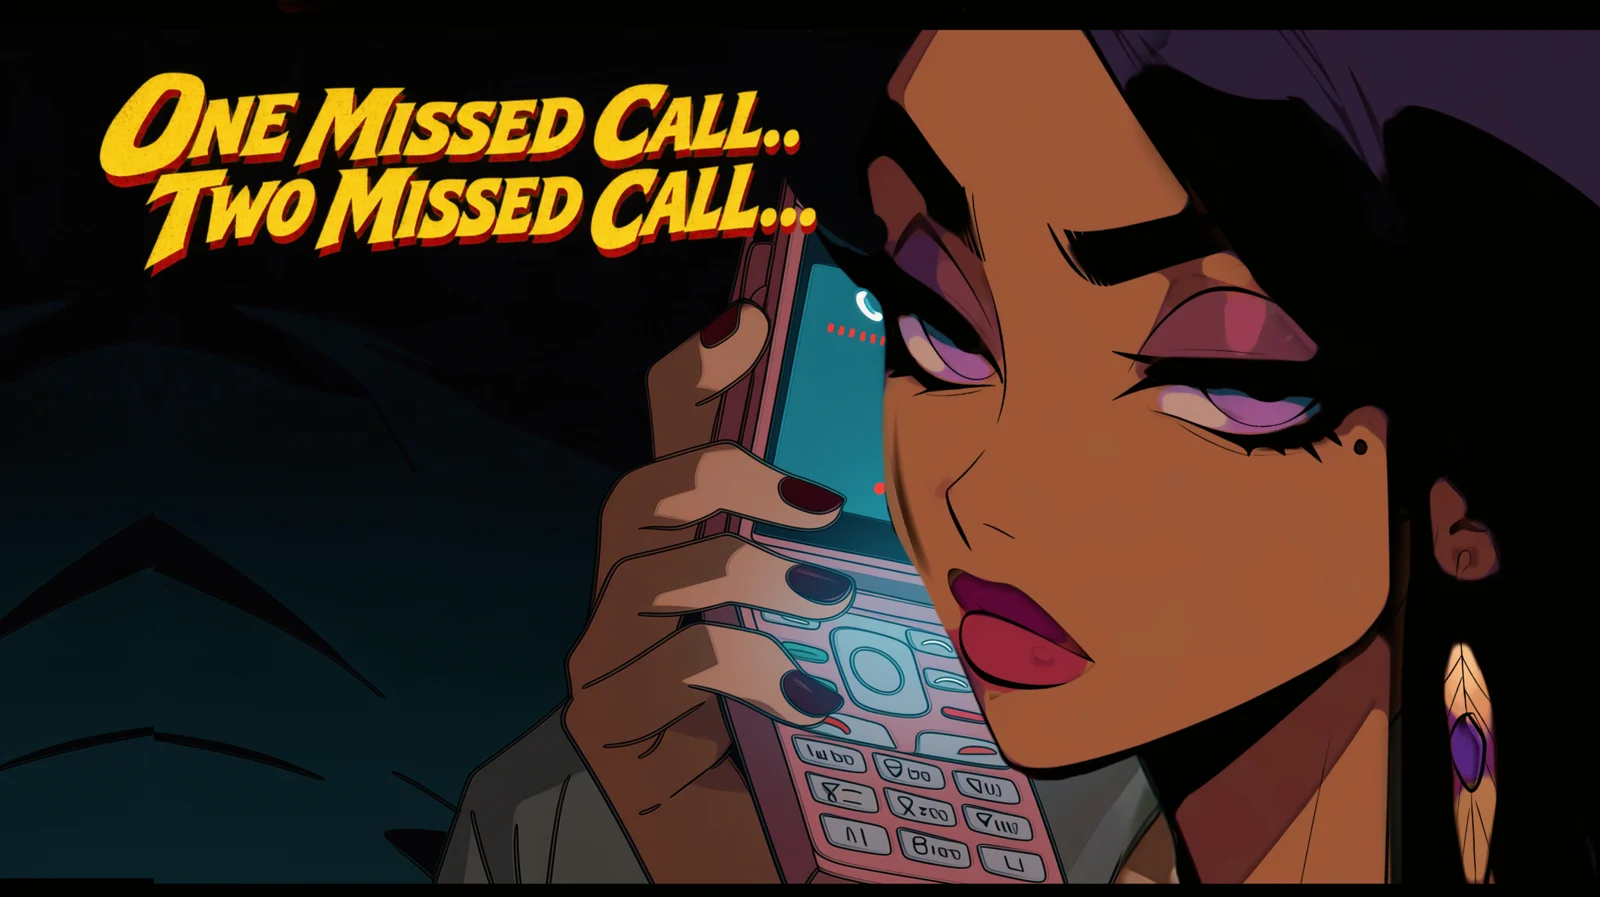
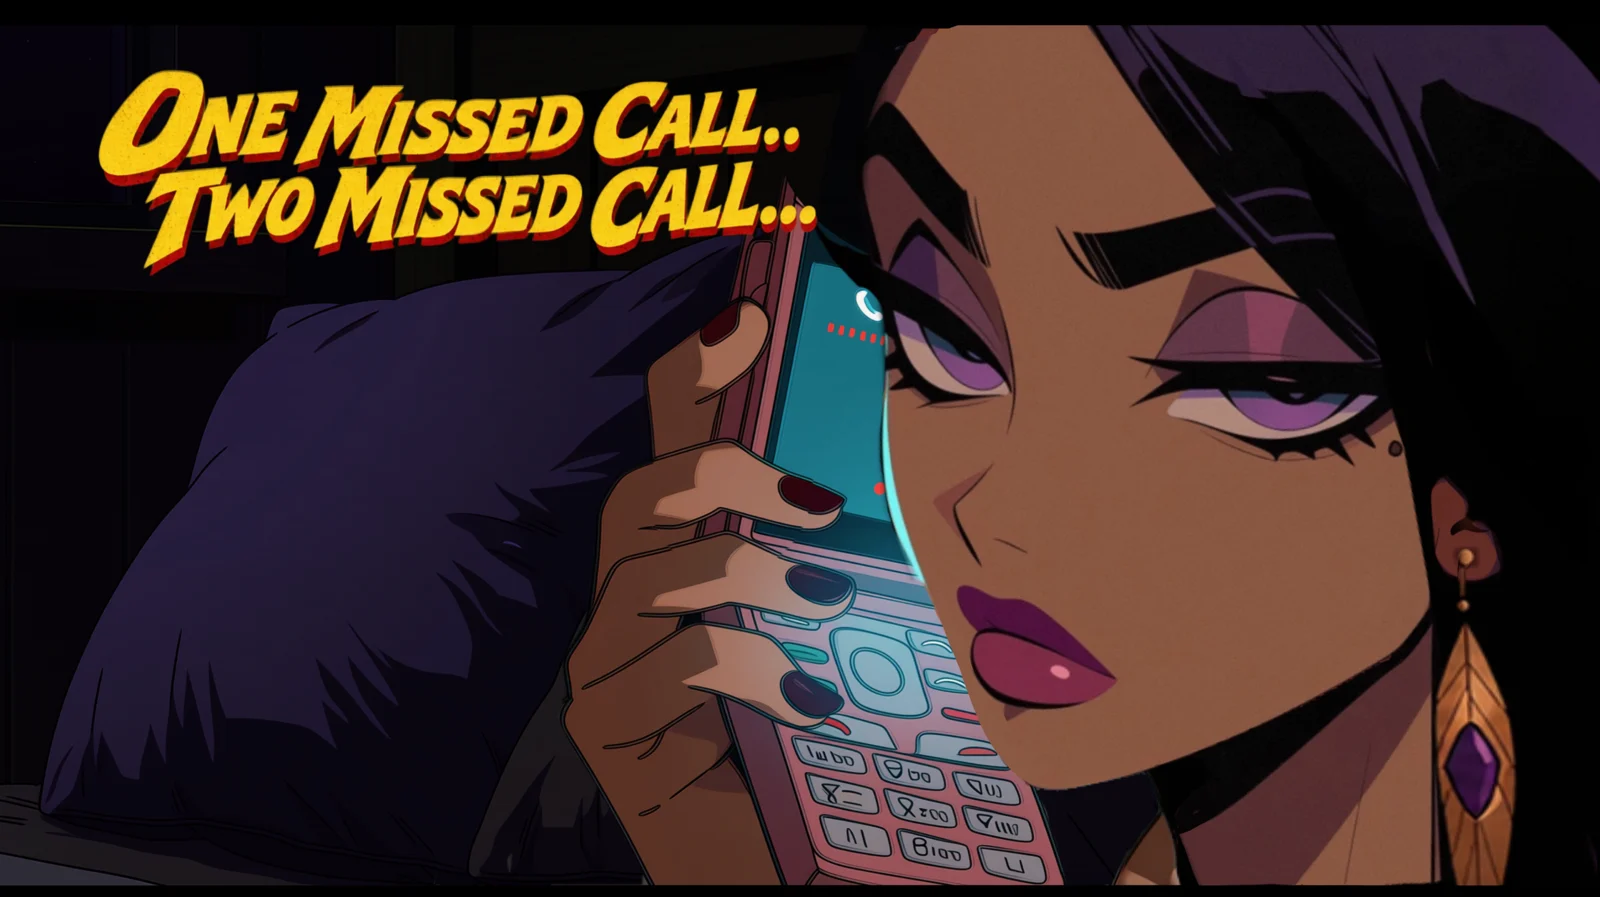
Okinawa page: full-width album visual with top/bottom fades; new One Missed Call art
Claude-Session: https://claude.ai/code/session_013w5yMdZKv437No8p47gv7E

diff --git a/okinawa/index.html b/okinawa/index.html
@@ -61,8 +61,9 @@ a{color:inherit}
 .title .line{gap:clamp(14px,3.6vw,32px)}
 .sub{margin-top:26px;font-size:clamp(12px,1.4vw,14px);letter-spacing:.24em;text-transform:uppercase;color:#8b93a1}
 .sub b{color:#e7eaf0;font-weight:700}
-.cover{margin:34px auto 0;max-width:900px;border-radius:14px;overflow:hidden;border:1px solid #1f2430;box-shadow:0 30px 80px rgba(0,0,0,.55)}
-.cover img{display:block;width:100%;height:auto}
+.cover{position:relative;margin:-40px calc(50% - 50vw) -30px;width:100vw;overflow:hidden}
+.cover img{display:block;width:100%;height:clamp(300px,52vw,760px);object-fit:cover;object-position:22% 50%;-webkit-mask-image:linear-gradient(to bottom,transparent 0%,#000 26%,#000 66%,transparent 100%);mask-image:linear-gradient(to bottom,transparent 0%,#000 26%,#000 66%,transparent 100%)}
+@media (max-width:820px){.cover img{height:62vw;object-position:15% 50%}}
 
 /* board */
 .board{margin:34px 0 0;background:var(--board);border:1px solid #1f2430;border-radius:14px;padding:18px clamp(12px,2.4vw,26px) 10px;box-shadow:0 30px 80px rgba(0,0,0,.55),inset 0 1px 0 rgba(255,255,255,.03)}
